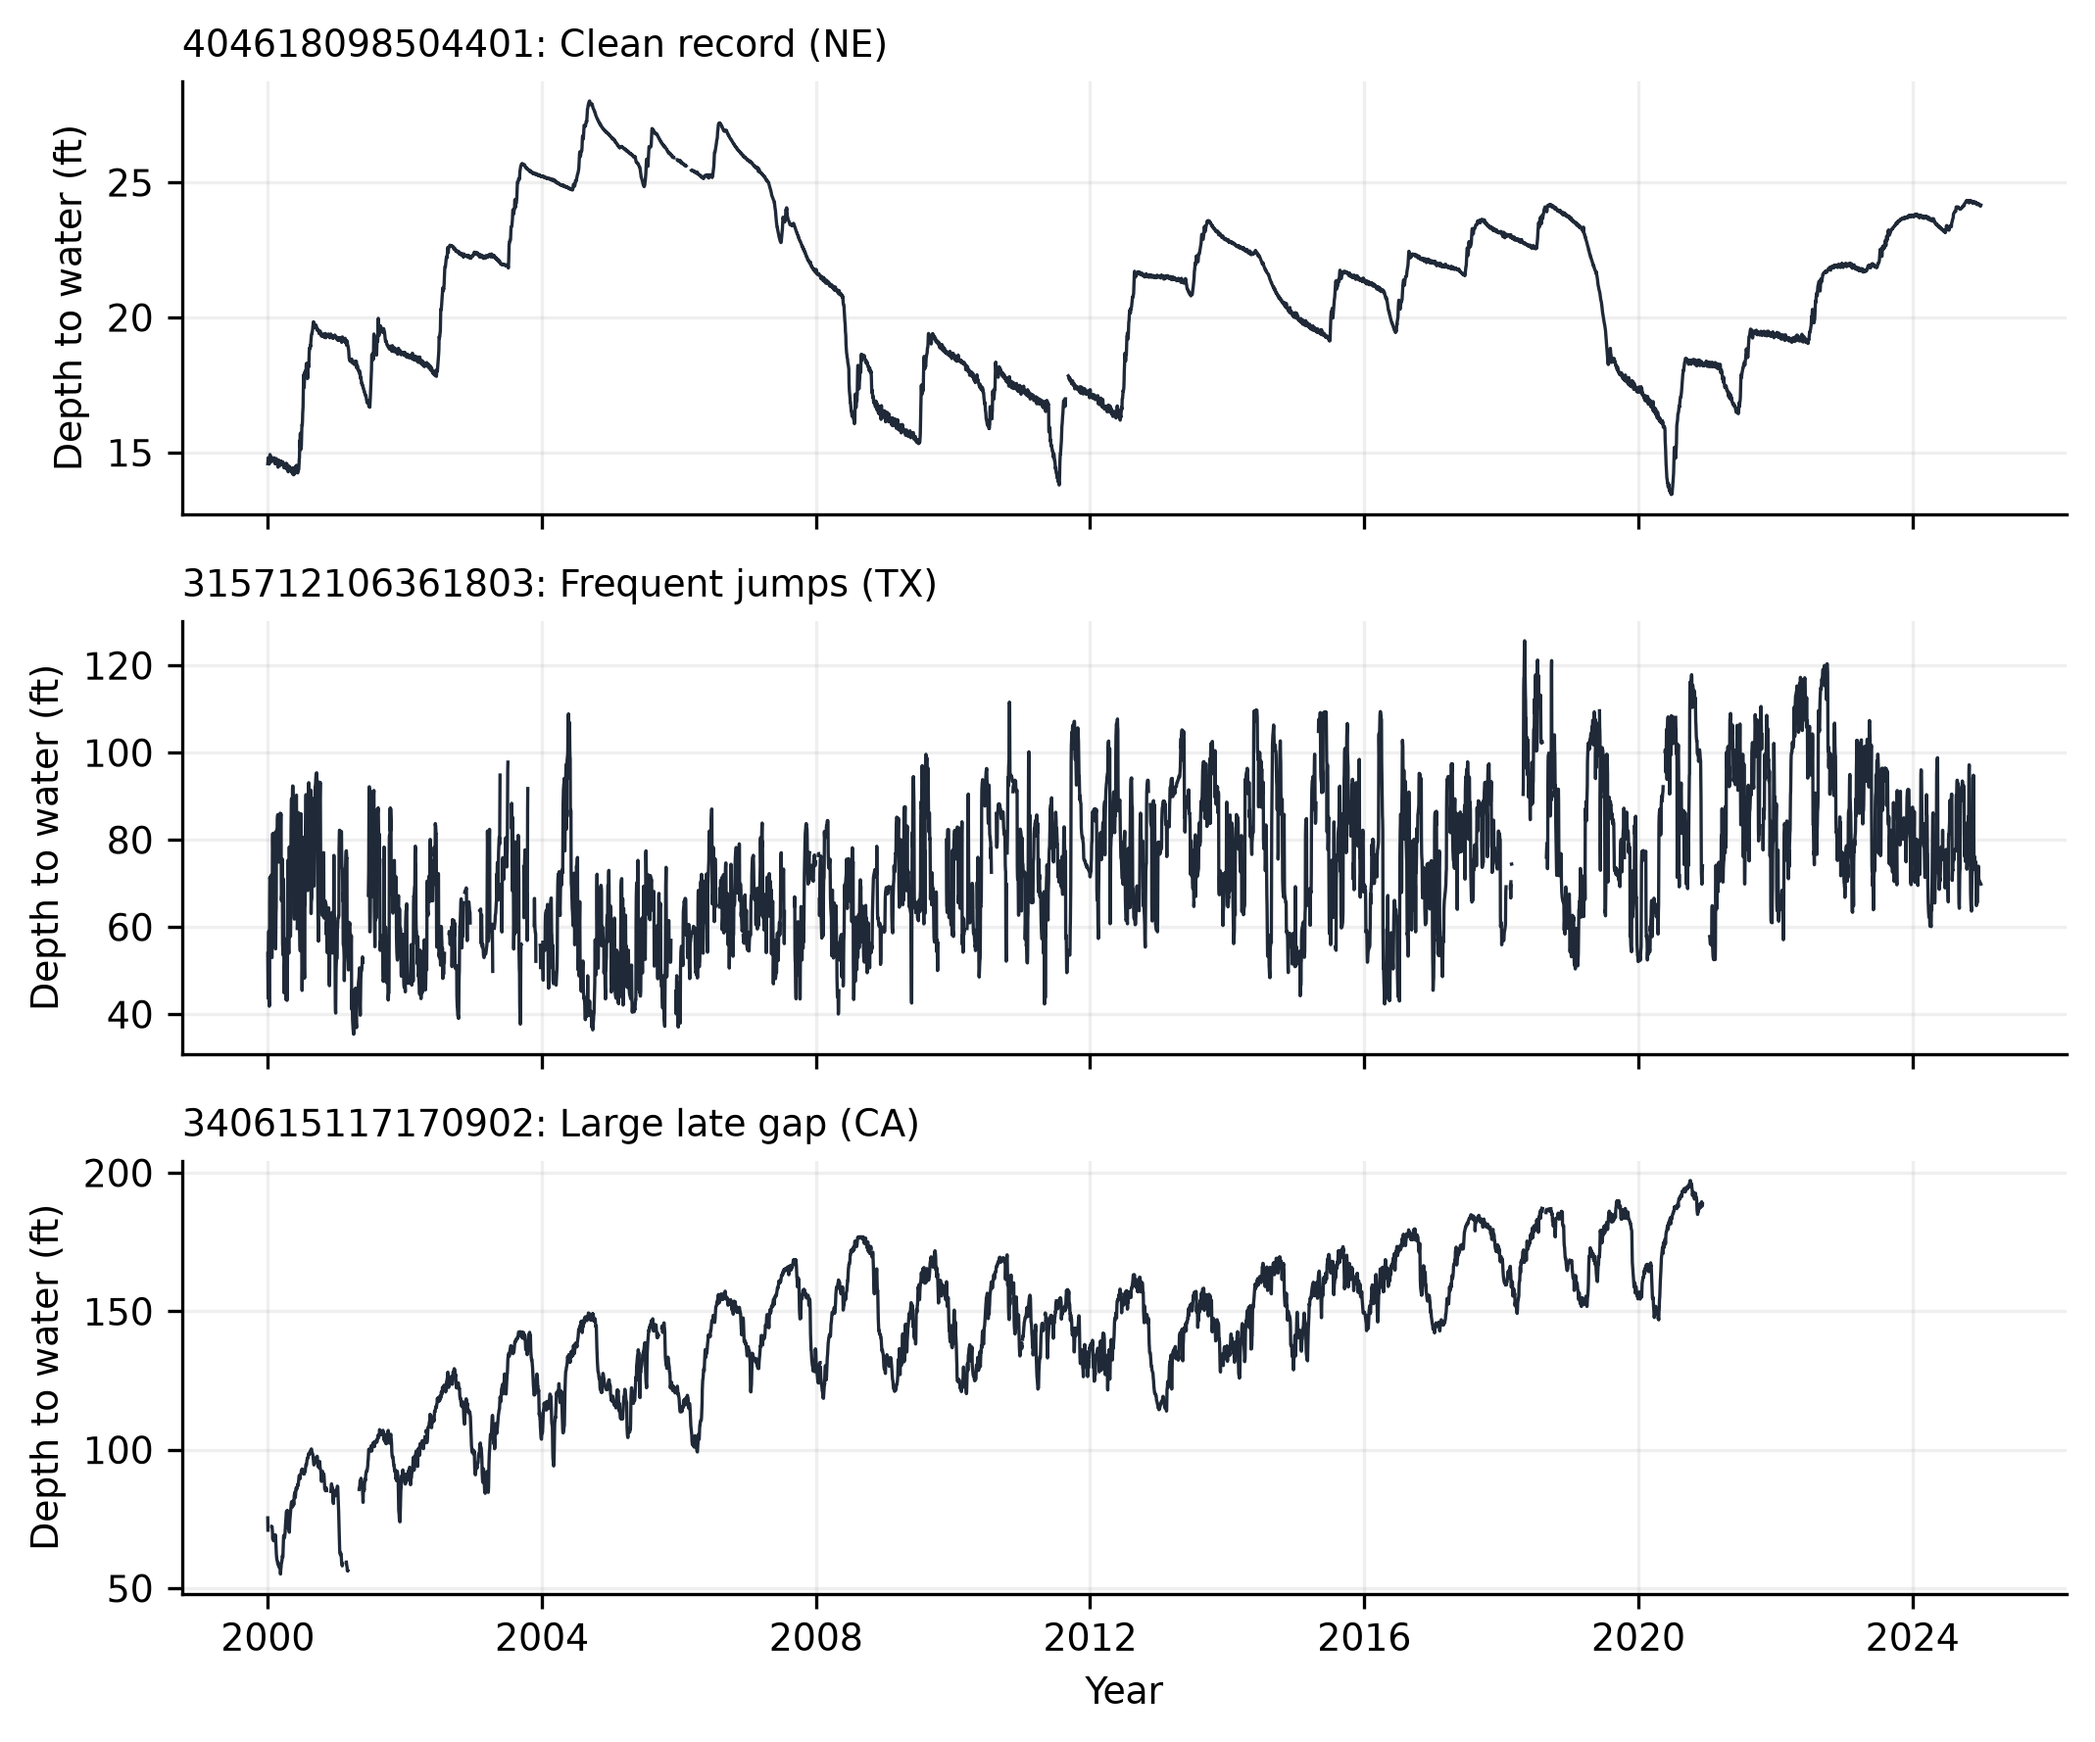
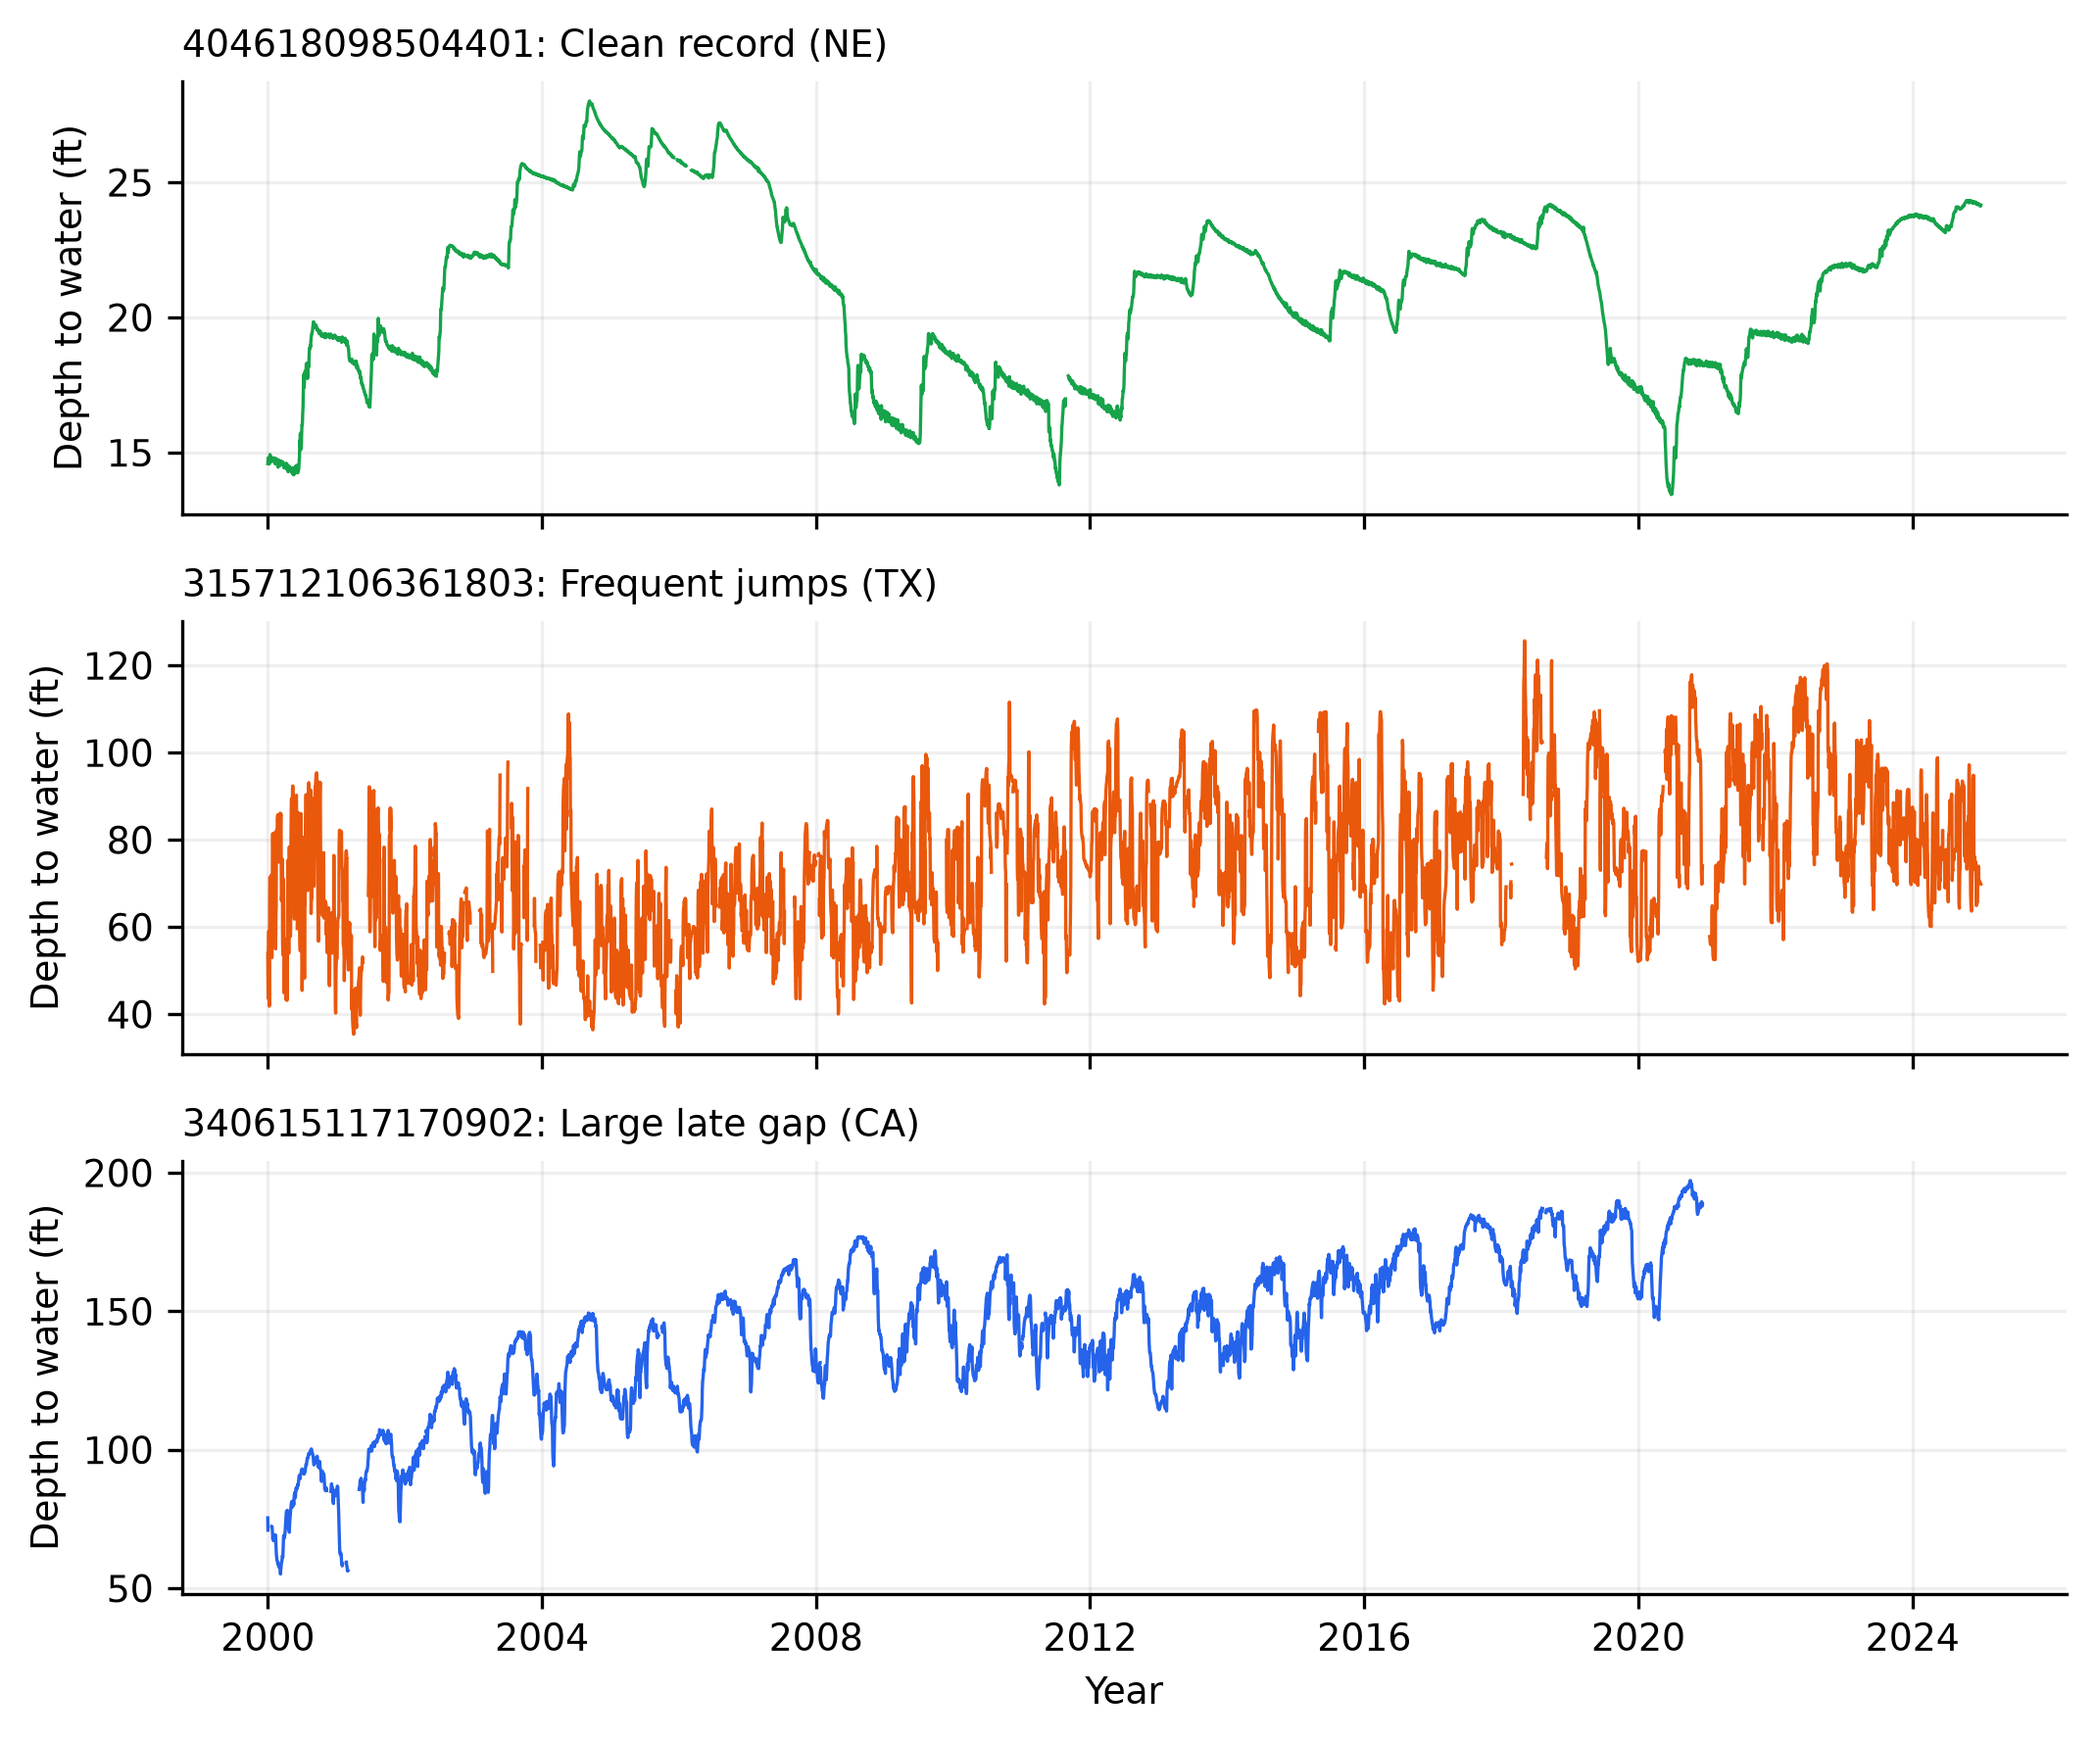
Color-code example hydrographs by state

diff --git a/scripts/12_make_figures.py b/scripts/12_make_figures.py
@@ -87,14 +87,14 @@ def fig_study_map() -> None:
 def fig_examples() -> None:
     panel = pd.read_parquet(PROJECT_ROOT / "data/processed/panel_full.parquet")
     examples = [
-        ("404618098504401", "Clean record (NE)"),
-        ("315712106361803", "Frequent jumps (TX)"),
-        ("340615117170902", "Large late gap (CA)"),
+        ("404618098504401", "Clean record (NE)", "#16a34a"),
+        ("315712106361803", "Frequent jumps (TX)", "#ea580c"),
+        ("340615117170902", "Large late gap (CA)", "#2563eb"),
     ]
     fig, axes = plt.subplots(3, 1, figsize=(7.2, 6.0), sharex=True)
-    for ax, (site, title) in zip(axes, examples):
+    for ax, (site, title, color) in zip(axes, examples):
         group = panel[panel["site_no"].astype(str) == site].sort_values("date")
-        ax.plot(group["date"], group["value"], color="#1f2937", linewidth=0.8)
+        ax.plot(group["date"], group["value"], color=color, linewidth=0.8)
         ax.set_ylabel("Depth to water (ft)")
         ax.set_title(f"{site}: {title}", fontsize=9, loc="left")
         ax.grid(alpha=0.2)
